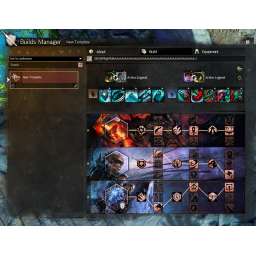
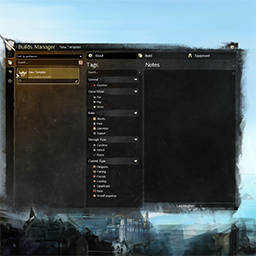
-fixed templates not loading on ui build

diff --git a/BuildsManager/Controls/Tabs/BuildTab.cs b/BuildsManager/Controls/Tabs/BuildTab.cs
@@ -167,7 +167,11 @@ namespace Kenedia.Modules.BuildsManager.Controls.Tabs
 
             WidthSizingMode = SizingMode.Fill;
             HeightSizingMode = SizingMode.Fill;
+
             SetSelectionTextures();
+            SetProfessionSpecifics();
+
+            _buildCodeBox.Text = TemplatePresenter?.Template?.ParseBuildCode();
         }
 
         public TemplatePresenter TemplatePresenter { get; }
@@ -267,7 +271,7 @@ namespace Kenedia.Modules.BuildsManager.Controls.Tabs
         private void TemplatePresenter_TemplateChanged(object sender, Core.Models.ValueChangedEventArgs<Template> e)
         {
             SetSelectionTextures();
-            SetProfessionSpecifics();
+            SetProfessionSpecifics();            
 
             _buildCodeBox.Text = TemplatePresenter?.Template?.ParseBuildCode();
         }

diff --git a/BuildsManager/Controls/Selection/BuildSelection.cs b/BuildsManager/Controls/Selection/BuildSelection.cs
@@ -215,7 +215,7 @@ namespace Kenedia.Modules.BuildsManager.Controls.Selection
 
             var current = TemplateSelectables.FirstOrDefault(x => x.Template == TemplatePresenter.Template);
             
-            if (current?.IsVisible() is not true && SelectionContent.OfType<TemplateSelectable>().FirstOrDefault(x => x.Visible) is TemplateSelectable t)
+            if (current?.Visible is not true && SelectionContent.OfType<TemplateSelectable>().FirstOrDefault(x => x.Visible) is TemplateSelectable t)
             {
                 TemplatePresenter.SetTemplate(t.Template);
             }

diff --git a/BuildsManager/Controls/SkillsBar.cs b/BuildsManager/Controls/SkillsBar.cs
@@ -60,6 +60,7 @@ namespace Kenedia.Modules.BuildsManager.Controls
             TemplatePresenter.ProfessionChanged += TemplatePresenter_ProfessionChanged;
             TemplatePresenter.TemplateChanged += TemplatePresenter_TemplateChanged;
             TemplatePresenter.LegendSlotChanged += TemplatePresenter_LegendSlotChanged;
+            SetSkillsVisibility();
         }
 
         private void TemplatePresenter_LegendSlotChanged(object sender, ValueChangedEventArgs<LegendSlotType> e)

diff --git a/BuildsManager/Controls/SpecLine.cs b/BuildsManager/Controls/SpecLine.cs
@@ -127,6 +127,8 @@ namespace Kenedia.Modules.BuildsManager.Controls
             TemplatePresenter.SpecializationChanged += OnSpecializationChanged;
             TemplatePresenter.TemplateChanged += TemplatePresenter_TemplateChanged;
             TemplatePresenter.TraitChanged += TemplatePresenter_TraitChanged;
+
+            SetSpecialization();
         }
 
         private void TemplatePresenter_TraitChanged(object sender, TraitChangedEventArgs e)

diff --git a/BuildsManager/Controls/SkillSlotControl.cs b/BuildsManager/Controls/SkillSlotControl.cs
@@ -67,6 +67,8 @@ namespace Kenedia.Modules.BuildsManager.Controls
 
             TemplatePresenter.TemplateChanged += TemplatePresenter_TemplateChanged;
             TemplatePresenter.SkillChanged += TemplatePresenter_SkillChanged;
+
+            Skill = TemplatePresenter?.Template?[SkillSlot];
         }
 
         private void TemplatePresenter_TemplateChanged(object sender, Core.Models.ValueChangedEventArgs<Template> e)

diff --git a/BuildsManager/Views/MainWindow.cs b/BuildsManager/Views/MainWindow.cs
@@ -127,7 +127,7 @@ namespace Kenedia.Modules.BuildsManager.Views
                 QuickFiltersPanel.Show();
             }
 
-            SelectionPanel.BuildSelection.FilterTemplates();
+            //SelectionPanel.BuildSelection.FilterTemplates();
         }
 
         protected override void OnClick(MouseEventArgs e)

diff --git a/BuildsManager/Controls/Tabs/AboutTab.cs b/BuildsManager/Controls/Tabs/AboutTab.cs
@@ -187,6 +187,7 @@ namespace Kenedia.Modules.BuildsManager.Controls.Tabs
             _tagPanel.ChildRemoved += TagPanel_ChildsChanged;
 
             CreateTagControls();
+            ApplyTemplate();
 
             _created = true;
         }

diff --git a/BuildsManager/Controls/GearSlots/GearSlot.cs b/BuildsManager/Controls/GearSlots/GearSlot.cs
@@ -66,6 +66,7 @@ namespace Kenedia.Modules.BuildsManager.Controls_Old.GearPage.GearSlots
 
             ItemControl.Parent = this;
 
+            SetItemFromTemplate();
         }
 
         public SelectionPanel SelectionPanel { get; }

diff --git a/BuildsManager/Models/TemplatePresenter.cs b/BuildsManager/Models/TemplatePresenter.cs
@@ -8,6 +8,7 @@ using Kenedia.Modules.Core.DataModels;
 using Kenedia.Modules.Core.Models;
 using Kenedia.Modules.Core.Utility;
 using System;
+using System.Diagnostics;
 
 namespace Kenedia.Modules.BuildsManager.Models
 {
